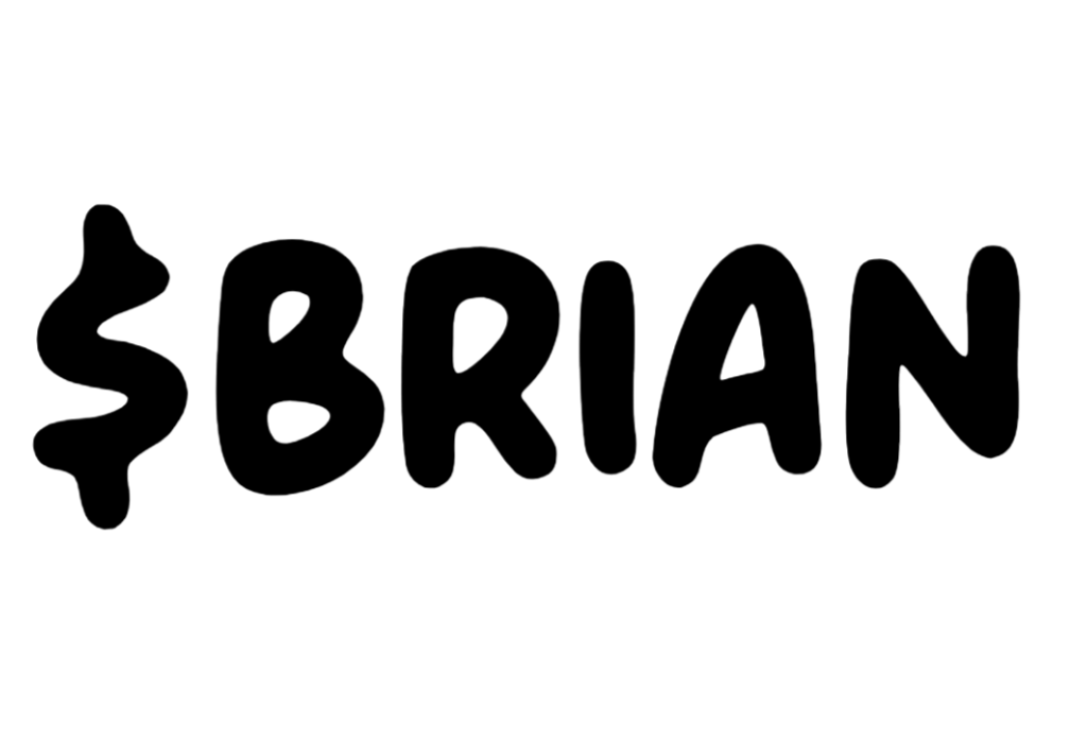
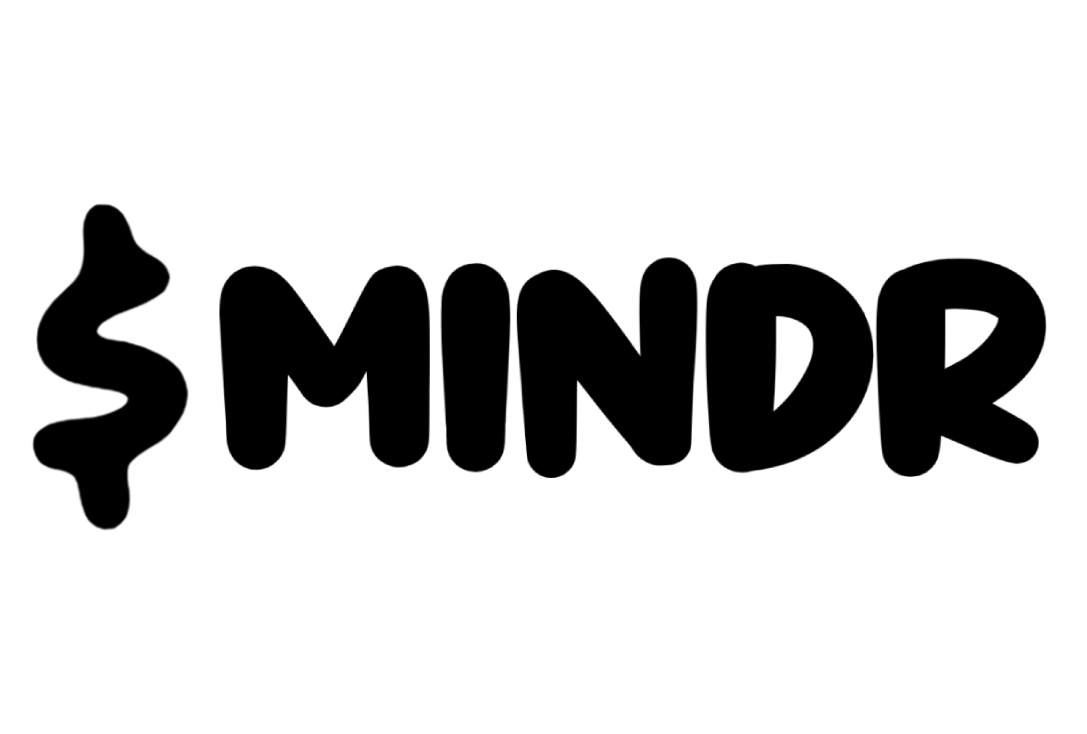
1

Changed region(s): [[0.1822, 0.2997, 0.9715, 0.6894], [0.1822, 0.4496, 0.2125, 0.6294], [0.6679, 0.3297, 0.7286, 0.3597]]

diff --git a/index.html b/index.html
@@ -10,7 +10,7 @@
     <link rel="icon" href="./assets/logo1.png" type="image/png">
     <link rel="apple-touch-icon" href="./assets/logo1.png">
     <title>Brainy</title>
-    <meta name="description" content="BRIAN is a cheeky, sarcastic genius representing your inner thoughts on the Solana network." />
+    <meta name="description" content="MINDR is a cheeky, sarcastic genius representing your inner thoughts on the Solana network." />
   
     <link rel="preconnect" href="https://fonts.googleapis.com">
     <link rel="preconnect" href="https://fonts.gstatic.com" crossorigin>
@@ -25,48 +25,48 @@
       <div class="ticker-wrapper">
         <div class="ticker">
             <div class="ticker-move">
-                <span class="text">cmEz...<span style="color:#ff7bd3; font-weight: bold; text-transform: uppercase;">Bump</span></span>
-                <span class="text">cmEz...<span style="color:#ff7bd3; font-weight: bold; text-transform: uppercase;">Bump</span></span>
-                <span class="text">cmEz...<span style="color:#ff7bd3; font-weight: bold; text-transform: uppercase;">Bump</span></span>
-                <span class="text">cmEz...<span style="color:#ff7bd3; font-weight: bold; text-transform: uppercase;">Bump</span></span>
-                <span class="text">cmEz...<span style="color:#ff7bd3; font-weight: bold; text-transform: uppercase;">Bump</span></span>
-                <span class="text">cmEz...<span style="color:#ff7bd3; font-weight: bold; text-transform: uppercase;">Bump</span></span>
-                <span class="text">cmEz...<span style="color:#ff7bd3; font-weight: bold; text-transform: uppercase;">Bump</span></span>
-                <span class="text">cmEz...<span style="color:#ff7bd3; font-weight: bold; text-transform: uppercase;">Bump</span></span>
-                <span class="text">cmEz...<span style="color:#ff7bd3; font-weight: bold; text-transform: uppercase;">Bump</span></span>
-                <span class="text">cmEz...<span style="color:#ff7bd3; font-weight: bold; text-transform: uppercase;">Bump</span></span>
-                <span class="text">cmEz...<span style="color:#ff7bd3; font-weight: bold; text-transform: uppercase;">Bump</span></span>
-                <span class="text">cmEz...<span style="color:#ff7bd3; font-weight: bold; text-transform: uppercase;">Bump</span></span>
-                <span class="text">cmEz...<span style="color:#ff7bd3; font-weight: bold; text-transform: uppercase;">Bump</span></span>
-                <span class="text">cmEz...<span style="color:#ff7bd3; font-weight: bold; text-transform: uppercase;">Bump</span></span>
-                <span class="text">cmEz...<span style="color:#ff7bd3; font-weight: bold; text-transform: uppercase;">Bump</span></span>
-                <span class="text">cmEz...<span style="color:#ff7bd3; font-weight: bold; text-transform: uppercase;">Bump</span></span>
-                <span class="text">cmEz...<span style="color:#ff7bd3; font-weight: bold; text-transform: uppercase;">Bump</span></span>
-                <span class="text">cmEz...<span style="color:#ff7bd3; font-weight: bold; text-transform: uppercase;">Bump</span></span>
-                <span class="text">cmEz...<span style="color:#ff7bd3; font-weight: bold; text-transform: uppercase;">Bump</span></span>
-                <span class="text">cmEz...<span style="color:#ff7bd3; font-weight: bold; text-transform: uppercase;">Bump</span></span>
+                <span class="text">5GcT...<span style="color:#ff7bd3; font-weight: bold; text-transform: uppercase;">pump</span></span>
+                <span class="text">5GcT...<span style="color:#ff7bd3; font-weight: bold; text-transform: uppercase;">pump</span></span>
+                <span class="text">5GcT...<span style="color:#ff7bd3; font-weight: bold; text-transform: uppercase;">pump</span></span>
+                <span class="text">5GcT...<span style="color:#ff7bd3; font-weight: bold; text-transform: uppercase;">pump</span></span>
+                <span class="text">5GcT...<span style="color:#ff7bd3; font-weight: bold; text-transform: uppercase;">pump</span></span>
+                <span class="text">5GcT...<span style="color:#ff7bd3; font-weight: bold; text-transform: uppercase;">pump</span></span>
+                <span class="text">5GcT...<span style="color:#ff7bd3; font-weight: bold; text-transform: uppercase;">pump</span></span>
+                <span class="text">5GcT...<span style="color:#ff7bd3; font-weight: bold; text-transform: uppercase;">pump</span></span>
+                <span class="text">5GcT...<span style="color:#ff7bd3; font-weight: bold; text-transform: uppercase;">pump</span></span>
+                <span class="text">5GcT...<span style="color:#ff7bd3; font-weight: bold; text-transform: uppercase;">pump</span></span>
+                <span class="text">5GcT...<span style="color:#ff7bd3; font-weight: bold; text-transform: uppercase;">pump</span></span>
+                <span class="text">5GcT...<span style="color:#ff7bd3; font-weight: bold; text-transform: uppercase;">pump</span></span>
+                <span class="text">5GcT...<span style="color:#ff7bd3; font-weight: bold; text-transform: uppercase;">pump</span></span>
+                <span class="text">5GcT...<span style="color:#ff7bd3; font-weight: bold; text-transform: uppercase;">pump</span></span>
+                <span class="text">5GcT...<span style="color:#ff7bd3; font-weight: bold; text-transform: uppercase;">pump</span></span>
+                <span class="text">5GcT...<span style="color:#ff7bd3; font-weight: bold; text-transform: uppercase;">pump</span></span>
+                <span class="text">5GcT...<span style="color:#ff7bd3; font-weight: bold; text-transform: uppercase;">pump</span></span>
+                <span class="text">5GcT...<span style="color:#ff7bd3; font-weight: bold; text-transform: uppercase;">pump</span></span>
+                <span class="text">5GcT...<span style="color:#ff7bd3; font-weight: bold; text-transform: uppercase;">pump</span></span>
+                <span class="text">5GcT...<span style="color:#ff7bd3; font-weight: bold; text-transform: uppercase;">pump</span></span>
             </div>
             <DIV class="ticker-move">
-                <span class="text">cmEz...<span style="color:#ff7bd3; font-weight: bold; text-transform: uppercase;">Bump</span></span>
-                <span class="text">cmEz...<span style="color:#ff7bd3; font-weight: bold; text-transform: uppercase;">Bump</span></span>
-                <span class="text">cmEz...<span style="color:#ff7bd3; font-weight: bold; text-transform: uppercase;">Bump</span></span>
-                <span class="text">cmEz...<span style="color:#ff7bd3; font-weight: bold; text-transform: uppercase;">Bump</span></span>
-                <span class="text">cmEz...<span style="color:#ff7bd3; font-weight: bold; text-transform: uppercase;">Bump</span></span>
-                <span class="text">cmEz...<span style="color:#ff7bd3; font-weight: bold; text-transform: uppercase;">Bump</span></span>
-                <span class="text">cmEz...<span style="color:#ff7bd3; font-weight: bold; text-transform: uppercase;">Bump</span></span>
-                <span class="text">cmEz...<span style="color:#ff7bd3; font-weight: bold; text-transform: uppercase;">Bump</span></span>
-                <span class="text">cmEz...<span style="color:#ff7bd3; font-weight: bold; text-transform: uppercase;">Bump</span></span>
-                <span class="text">cmEz...<span style="color:#ff7bd3; font-weight: bold; text-transform: uppercase;">Bump</span></span>
-                <span class="text">cmEz...<span style="color:#ff7bd3; font-weight: bold; text-transform: uppercase;">Bump</span></span>
-                <span class="text">cmEz...<span style="color:#ff7bd3; font-weight: bold; text-transform: uppercase;">Bump</span></span>
-                <span class="text">cmEz...<span style="color:#ff7bd3; font-weight: bold; text-transform: uppercase;">Bump</span></span>
-                <span class="text">cmEz...<span style="color:#ff7bd3; font-weight: bold; text-transform: uppercase;">Bump</span></span>
-                <span class="text">cmEz...<span style="color:#ff7bd3; font-weight: bold; text-transform: uppercase;">Bump</span></span>
-                <span class="text">cmEz...<span style="color:#ff7bd3; font-weight: bold; text-transform: uppercase;">Bump</span></span>
-                <span class="text">cmEz...<span style="color:#ff7bd3; font-weight: bold; text-transform: uppercase;">Bump</span></span>
-                <span class="text">cmEz...<span style="color:#ff7bd3; font-weight: bold; text-transform: uppercase;">Bump</span></span>
-                <span class="text">cmEz...<span style="color:#ff7bd3; font-weight: bold; text-transform: uppercase;">Bump</span></span>
-                <span class="text">cmEz...<span style="color:#ff7bd3; font-weight: bold; text-transform: uppercase;">Bump</span></span>
+                <span class="text">5GcT...<span style="color:#ff7bd3; font-weight: bold; text-transform: uppercase;">pump</span></span>
+                <span class="text">5GcT...<span style="color:#ff7bd3; font-weight: bold; text-transform: uppercase;">pump</span></span>
+                <span class="text">5GcT...<span style="color:#ff7bd3; font-weight: bold; text-transform: uppercase;">pump</span></span>
+                <span class="text">5GcT...<span style="color:#ff7bd3; font-weight: bold; text-transform: uppercase;">pump</span></span>
+                <span class="text">5GcT...<span style="color:#ff7bd3; font-weight: bold; text-transform: uppercase;">pump</span></span>
+                <span class="text">5GcT...<span style="color:#ff7bd3; font-weight: bold; text-transform: uppercase;">pump</span></span>
+                <span class="text">5GcT...<span style="color:#ff7bd3; font-weight: bold; text-transform: uppercase;">pump</span></span>
+                <span class="text">5GcT...<span style="color:#ff7bd3; font-weight: bold; text-transform: uppercase;">pump</span></span>
+                <span class="text">5GcT...<span style="color:#ff7bd3; font-weight: bold; text-transform: uppercase;">pump</span></span>
+                <span class="text">5GcT...<span style="color:#ff7bd3; font-weight: bold; text-transform: uppercase;">pump</span></span>
+                <span class="text">5GcT...<span style="color:#ff7bd3; font-weight: bold; text-transform: uppercase;">pump</span></span>
+                <span class="text">5GcT...<span style="color:#ff7bd3; font-weight: bold; text-transform: uppercase;">pump</span></span>
+                <span class="text">5GcT...<span style="color:#ff7bd3; font-weight: bold; text-transform: uppercase;">pump</span></span>
+                <span class="text">5GcT...<span style="color:#ff7bd3; font-weight: bold; text-transform: uppercase;">pump</span></span>
+                <span class="text">5GcT...<span style="color:#ff7bd3; font-weight: bold; text-transform: uppercase;">pump</span></span>
+                <span class="text">5GcT...<span style="color:#ff7bd3; font-weight: bold; text-transform: uppercase;">pump</span></span>
+                <span class="text">5GcT...<span style="color:#ff7bd3; font-weight: bold; text-transform: uppercase;">pump</span></span>
+                <span class="text">5GcT...<span style="color:#ff7bd3; font-weight: bold; text-transform: uppercase;">pump</span></span>
+                <span class="text">5GcT...<span style="color:#ff7bd3; font-weight: bold; text-transform: uppercase;">pump</span></span>
+                <span class="text">5GcT...<span style="color:#ff7bd3; font-weight: bold; text-transform: uppercase;">pump</span></span>
             </div>
         </div>
       </div>
@@ -91,22 +91,22 @@
       <div class="social-links-and-ca-wrapper">
         <div class="social-links-wrapper">
 
-          <a class="social-link"  href="https://x.com/briancoinmeme" target="_blank">
+          <a class="social-link"  href="https://x.com/mindrmeme" target="_blank">
             <img class="social-img" src="./assets/social/x.svg"/>
           </a>
 
-          <a class="social-link"  href="https://t.me/briancoinmeme" target="_blank">
+          <a class="social-link"  href="https://t.me/mindrmeme" target="_blank">
             <img class="social-img" src="./assets/social/telegram.svg"/>
           </a>
           <a class="social-link"  href="#" target="_blank">
             <img class="social-img" src="./assets/DEXTools Isotype_black (alternative color).png"/>
           </a>
-            <a class="social-link"  href="https://pump.fun/cmEzNvcQbunJkTZecqhSL3DvyaZ863X8hPKAq4gBump" target="_blank">
+            <a class="social-link"  href="https://pump.fun/5GcTQKNREDx5xYupGDzbMEZ2sNzTRfuq96eD9gnpump" target="_blank">
             <img style="filter: brightness(0%);" class="social-img" src="./assets/pump.png"/>
           </a>
         </div>
         <div class="ca">
-          cmEzNvcQbunJkTZecqhSL3DvyaZ863X8hPKAq4g<span style="color:#ff7bd3; font-weight: bold; text-transform: uppercase;">Bump</span>
+          5GcTQKNREDx5xYupGDzbMEZ2sNzTRfuq96eD9gn<span style="color:#ff7bd3; font-weight: bold; text-transform: uppercase;">pump</span>
         </div>
       </div>
 
@@ -117,8 +117,8 @@
           <img class="brain-text-logo shaker" alt="brain-text-logo" src="./assets/brain_header.png" />
         </div>
 
-        <span class="brain-text fade-in-element">BRIAN is a cheeky, sarcastic genius representing your inner thoughts on the Solana network.</span>
-        <a href="https://pump.fun/cmEzNvcQbunJkTZecqhSL3DvyaZ863X8hPKAq4gBump" target="_blank" class="buy-brain-button"><img src="./assets/buy_brain_button.png" /></a>
+        <span class="brain-text fade-in-element">MINDR is a cheeky, sarcastic genius representing your inner thoughts on the Solana network.</span>
+        <a href="https://pump.fun/5GcTQKNREDx5xYupGDzbMEZ2sNzTRfuq96eD9gnpump" target="_blank" class="buy-brain-button"><img src="./assets/buy_brain_button.png" /></a>
       </div>
     </section>
     <section class="why-brain-wrapper">
@@ -126,10 +126,10 @@
         <div class="text-warpper">
           <img class="section-title why-brain-title fade-in-element" src="./assets/why_brain.png" />
           <br>
-            Dis smol BRIAN sez: "BUY NOW!"</br>
-            Dis big BRIAN sez: "MOON SOON!</br>
+            Dis smol MINDR sez: "BUY NOW!"</br>
+            Dis big MINDR sez: "MOON SOON!</br>
           </br>
-            Why $BRIAN Coin?</br>
+            Why $MINDR Coin?</br>
           </br>
             MOON! We go zoom zoom 🚀</br>
             DIAMOND HANDS! No paper hands, no weak sauce 💎✋</br>
@@ -150,48 +150,48 @@
       <div class="ticker-wrapper dark">
         <div class="ticker">
             <div class="ticker-move">
-                <span class="text">$BRIAN</span>
-                <span class="text">$BRIAN</span>
-                <span class="text">$BRIAN</span>
-                <span class="text">$BRIAN</span>
-                <span class="text">$BRIAN</span>
-                <span class="text">$BRIAN</span>
-                <span class="text">$BRIAN</span>
-                <span class="text">$BRIAN</span>
-                <span class="text">$BRIAN</span>
-                <span class="text">$BRIAN</span>
-                <span class="text">$BRIAN</span>
-                <span class="text">$BRIAN</span>
-                <span class="text">$BRIAN</span>
-                <span class="text">$BRIAN</span>
-                <span class="text">$BRIAN</span>
-                <span class="text">$BRIAN</span>
-                <span class="text">$BRIAN</span>
-                <span class="text">$BRIAN</span>
-                <span class="text">$BRIAN</span>
-                <span class="text">$BRIAN</span>
+                <span class="text">$MINDR</span>
+                <span class="text">$MINDR</span>
+                <span class="text">$MINDR</span>
+                <span class="text">$MINDR</span>
+                <span class="text">$MINDR</span>
+                <span class="text">$MINDR</span>
+                <span class="text">$MINDR</span>
+                <span class="text">$MINDR</span>
+                <span class="text">$MINDR</span>
+                <span class="text">$MINDR</span>
+                <span class="text">$MINDR</span>
+                <span class="text">$MINDR</span>
+                <span class="text">$MINDR</span>
+                <span class="text">$MINDR</span>
+                <span class="text">$MINDR</span>
+                <span class="text">$MINDR</span>
+                <span class="text">$MINDR</span>
+                <span class="text">$MINDR</span>
+                <span class="text">$MINDR</span>
+                <span class="text">$MINDR</span>
             </div>
             <div class="ticker-move">
-                <span class="text">$BRIAN</span>
-                <span class="text">$BRIAN</span>
-                <span class="text">$BRIAN</span>
-                <span class="text">$BRIAN</span>
-                <span class="text">$BRIAN</span>
-                <span class="text">$BRIAN</span>
-                <span class="text">$BRIAN</span>
-                <span class="text">$BRIAN</span>
-                <span class="text">$BRIAN</span>
-                <span class="text">$BRIAN</span>
-                <span class="text">$BRIAN</span>
-                <span class="text">$BRIAN</span>
-                <span class="text">$BRIAN</span>
-                <span class="text">$BRIAN</span>
-                <span class="text">$BRIAN</span>
-                <span class="text">$BRIAN</span>
-                <span class="text">$BRIAN</span>
-                <span class="text">$BRIAN</span>
-                <span class="text">$BRIAN</span>
-                <span class="text">$BRIAN</span>
+                <span class="text">$MINDR</span>
+                <span class="text">$MINDR</span>
+                <span class="text">$MINDR</span>
+                <span class="text">$MINDR</span>
+                <span class="text">$MINDR</span>
+                <span class="text">$MINDR</span>
+                <span class="text">$MINDR</span>
+                <span class="text">$MINDR</span>
+                <span class="text">$MINDR</span>
+                <span class="text">$MINDR</span>
+                <span class="text">$MINDR</span>
+                <span class="text">$MINDR</span>
+                <span class="text">$MINDR</span>
+                <span class="text">$MINDR</span>
+                <span class="text">$MINDR</span>
+                <span class="text">$MINDR</span>
+                <span class="text">$MINDR</span>
+                <span class="text">$MINDR</span>
+                <span class="text">$MINDR</span>
+                <span class="text">$MINDR</span>
             </div>
         </div>
       </div>
@@ -232,13 +232,13 @@
 
         <div class="step">
           <div class="step-title-and-text">
-            <h3>3. SWAP $SOL FOR $BRIAN</h3>
-            <p>Click on the button below, connect your wallet, and press SWAP! BOOM! <strong>You are a $BRIAN holder!</strong></p>
+            <h3>3. SWAP $SOL FOR $MINDR</h3>
+            <p>Click on the button below, connect your wallet, and press SWAP! BOOM! <strong>You are a $MINDR holder!</strong></p>
             <p></p>
-              <a href="https://pump.fun/cmEzNvcQbunJkTZecqhSL3DvyaZ863X8hPKAq4gBump" target="_blank" class="buy-brain-instep">Buy $BRIAN</a>
+              <a href="https://pump.fun/5GcTQKNREDx5xYupGDzbMEZ2sNzTRfuq96eD9gnpump" target="_blank" class="buy-brain-instep">Buy $MINDR</a>
           </div>
 
-          <img src="./assets/c.png" alt="Swap $SOL for $BRIAN">
+          <img src="./assets/c.png" alt="Swap $SOL for $MINDR">
         </div>
     </div>
     </section>
@@ -248,11 +248,11 @@
 
       <div class="social-links-wrapper-bottom">
 
-        <a class="social-link" href="https://x.com/briancoinmeme" target="_blank">
+        <a class="social-link" href="https://x.com/mindrmeme" target="_blank">
           <img class="social-img" src="./assets/social/x-w.svg"/>
         </a>
 
-        <a class="social-link" href="https://t.me/briancoinmeme" target="_blank">
+        <a class="social-link" href="https://t.me/mindrmeme" target="_blank">
           <img class="social-img" src="./assets/social/telegram-w.svg"/>
         </a>
       </div>
@@ -268,7 +268,7 @@
     </section>
     <div class="footer">
       <span class="disclaimer">
-        Legal Disclaimer: $BRIAN is a meme coin with no value or financial return. $BRIAN is purely for entertainment. By purchasing $BRIAN, you acknowledge this disclaimer.
+        Legal Disclaimer: $MINDR is a meme coin with no value or financial return. $MINDR is purely for entertainment. By purchasing $MINDR, you acknowledge this disclaimer.
       </span>
     </div>
     <script type="text/javascript" src="./script.js?v=1.0.1"></script>
